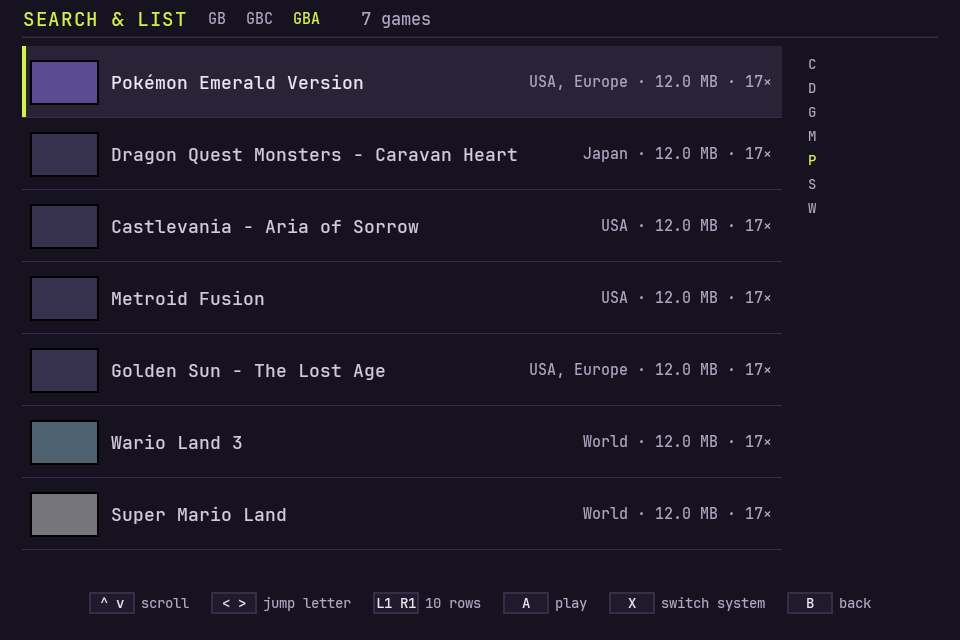
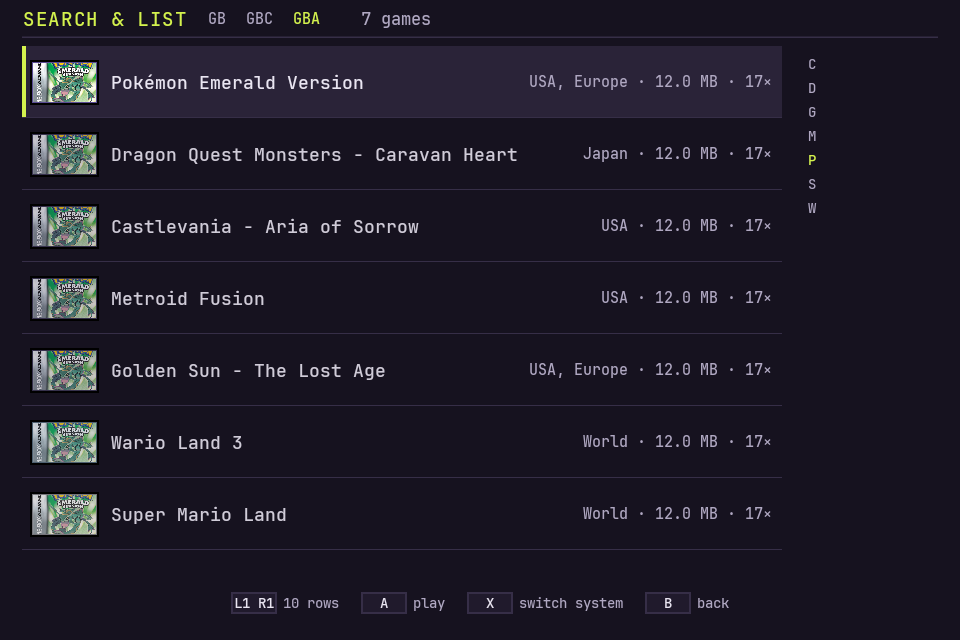
hapus hint scroll/jump letter di layar search

diff --git a/android/app/src/main/java/id/iqbaldev/kartrid/ui/ListScreen.kt b/android/app/src/main/java/id/iqbaldev/kartrid/ui/ListScreen.kt
@@ -252,10 +252,6 @@ fun ListScreen(
                 .offset(y = 592.dp),
             horizontalArrangement = Arrangement.Center,
         ) {
-            HintItem("^ v", "scroll")
-            Box(Modifier.width(22.dp))
-            HintItem("< >", "jump letter")
-            Box(Modifier.width(22.dp))
             HintItem("L1 R1", "10 rows")
             Box(Modifier.width(22.dp))
             HintItem("A", "play")
